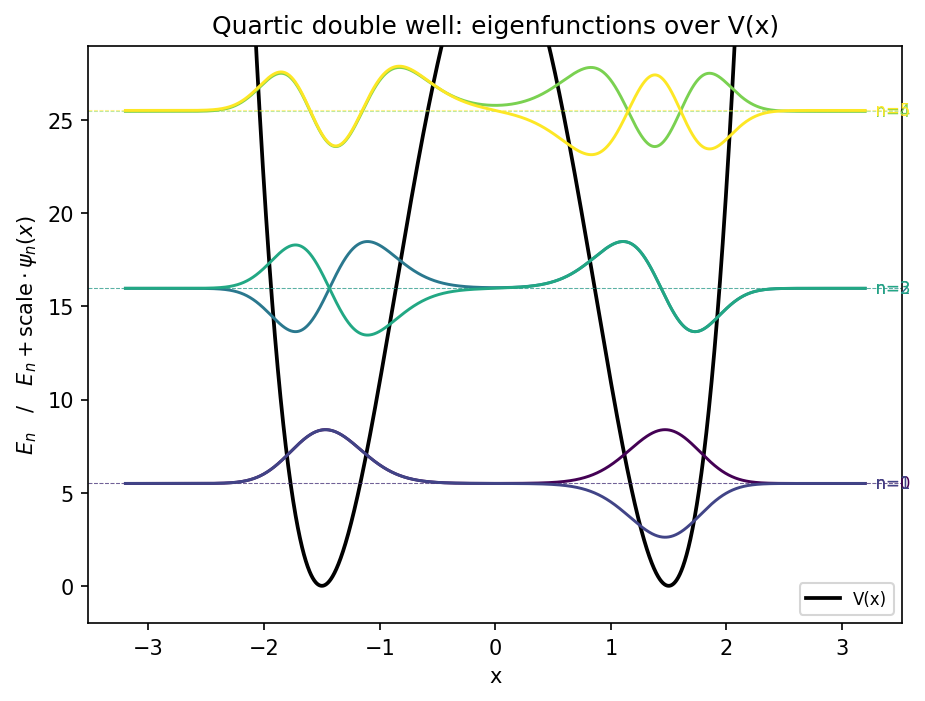
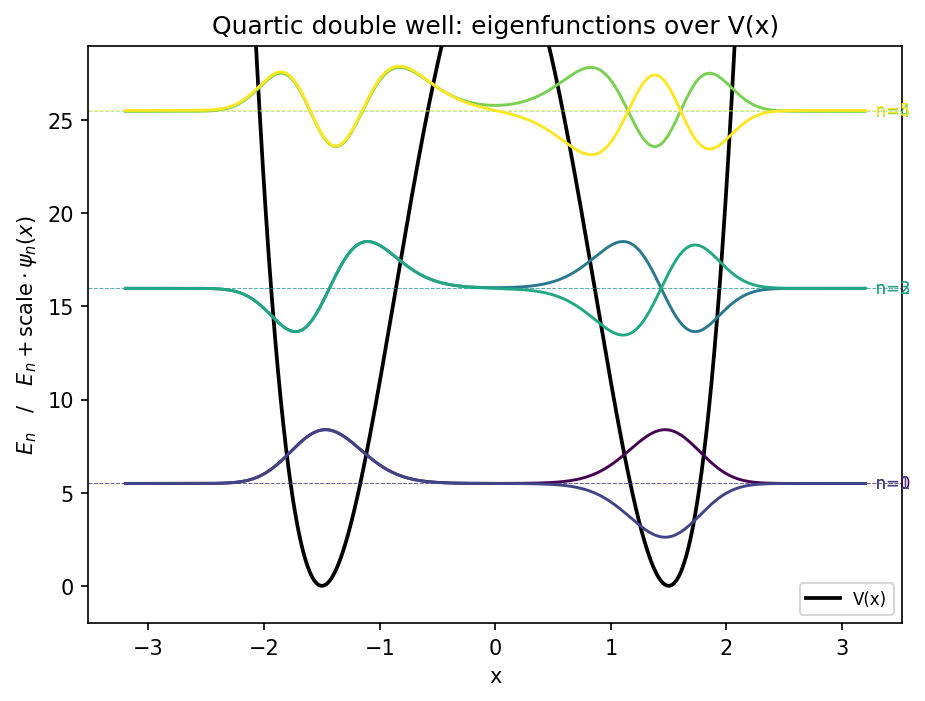
Pin the potential formulas, and regenerate the README figures
Same mutation audit as the 2D repo: nothing tested what the potentials actually compute, so dropping the square in V_DoubleWell left the suite green. The figures still showed the pre-convention signs, and the cell-average integral was rendering a literal comma on GitHub.

diff --git a/tests/test_eigensolver.py b/tests/test_eigensolver.py
@@ -233,3 +233,47 @@ def test_eigenfunctions_are_orthonormal(name, V_fun, x_min, x_max, N):
     assert np.allclose(gram, np.eye(eigvals.size), atol=1e-8), (
         f"{name}: max deviation from identity = {np.abs(gram - np.eye(eigvals.size)).max():.3e}"
     )
+
+
+# ---------------------------------------------------------------------------
+# The potential functions themselves, checked directly rather than through the
+# solver. Everything above tests V only via the spectrum it produces, which is
+# blind for the five potentials with no closed form: hermiticity, orthonormality
+# and the residual hold for *any* diagonal V, and node counts are topological, so
+# a quartic and a quadratic well give the same answer. Mutation confirmed the gap
+# - dropping the square in V_DoubleWell, or turning x**4 into x**2 in V_SingleWell,
+# left the entire suite green. These pin the algebra at hand-computed points.
+# ---------------------------------------------------------------------------
+
+_POTENTIAL_VALUES = [
+    # name, callable, x, expected V(x)   (all worked out by hand, see comments)
+    ("harmonic",       partial(V_HarmonicOscillator, omega=1.0, m=1.0), 2.0, 2.0),          # 0.5*1*4
+    ("anharmonic",     partial(V_AnharmonicOscillator, a=1.0, b=0.1),   2.0, 2.8),          # 0.5*(4 + 0.1*16)
+    ("infinite well",  V_InfiniteSquareWell,                            3.7, 0.0),          # flat inside
+    ("linear",         partial(V_LinearPotential, F=2.0),               3.0, 6.0),          # F*x
+    ("soft Coulomb",   partial(V_SoftCoulomb, Z=1.0, eps=0.5),          0.0, -2.0),         # -1/0.5
+    ("quartic single", partial(V_SingleWell, V0=2.0),                   2.0, 32.0),         # 2*2**4
+    ("quartic double", partial(V_DoubleWell, a=1.5, V0=7.0),            0.0, 35.4375),      # 7*(0-2.25)**2
+]
+
+
+@pytest.mark.parametrize("name,V_fun,x,expected", _POTENTIAL_VALUES)
+def test_potential_values_match_their_formulas(name, V_fun, x, expected):
+    got = float(np.asarray(V_fun(np.array([x])))[0])
+    assert abs(got - expected) < 1e-12, f"{name}: V({x}) = {got}, expected {expected}"
+
+
+def test_double_well_really_has_two_wells():
+    # Stronger than a point value and the reason the name is what it is: V must vanish at
+    # x = +-a and rise to a barrier in between. Dropping the outer square turns this into a
+    # shifted parabola with a single minimum at the origin, which this catches directly.
+    a, V0 = 1.5, 7.0
+    V = partial(V_DoubleWell, a=a, V0=V0)
+    x = np.linspace(-3.0, 3.0, 601)
+    v = V(x)
+    assert abs(float(V(np.array([a]))[0])) < 1e-12
+    assert abs(float(V(np.array([-a]))[0])) < 1e-12
+    assert float(V(np.array([0.0]))[0]) > 0.0, "no barrier between the wells"
+    minima = np.flatnonzero((v[1:-1] < v[:-2]) & (v[1:-1] < v[2:])) + 1
+    assert len(minima) == 2, f"expected two minima, found {len(minima)}"
+    assert np.allclose(np.abs(x[minima]), a, atol=2e-2)

diff --git a/README.md b/README.md
@@ -4,7 +4,7 @@
 [![Python](https://img.shields.io/badge/python-3.10%20%7C%203.12-blue)](https://www.python.org/)
 [![License: MIT](https://img.shields.io/badge/License-MIT-yellow.svg)](LICENSE)
 
-**A finite-difference eigensolver for the 1D time-independent Schrodinger equation, built from scratch and validated against every analytic spectrum it can be compared to.** Space is discretized on a uniform grid, the kinetic operator is a 4th-order 5-point stencil, the potential is a diagonal matrix, and the resulting sparse Hamiltonian is diagonalized with shift-invert `eigsh`. Nine potentials, 37 regression tests, CI on Python 3.10 and 3.12.
+**A finite-difference eigensolver for the 1D time-independent Schrodinger equation, built from scratch and validated against every analytic spectrum it can be compared to.** Space is discretized on a uniform grid, the kinetic operator is a 4th-order 5-point stencil, the potential is a diagonal matrix, and the resulting sparse Hamiltonian is diagonalized with shift-invert `eigsh`. Nine potentials, 45 regression tests, CI on Python 3.10 and 3.12.
 
 The interesting part is not the method, which is standard. It is that building it carefully surfaced three *distinct* sources of error that look identical from the outside — all of them show up as a relative error around $10^{-3}$ to $10^{-4}$ that refuses to shrink — and separating them is what the project is actually about.
 
@@ -110,7 +110,7 @@ The finite square well ($L=10$, $V_0=50$, centered) has a semi-analytic spectrum
 
 What it actually is: the sharp jump in $V(x)$ at the well walls, sampled pointwise onto the grid by `np.where`. Doing that puts the effective wall at whichever grid point happens to be nearest, so the well's width is only known to within $dx$ and the energies inherit an $O(dx)$ error. The fix is to give each grid point the *average* of $V$ over its cell instead of the value at its center,
 
-$$V_i = \frac{1}{dx}\int_{x_i - dx/2}^{x_i + dx/2} V(x')\,dx'$$
+$$V_i = \frac{1}{dx}\int_{x_i - dx/2}^{x_i + dx/2} V(x') dx'$$
 
 which for a step is exact and elementary: the only cell that changes is the one straddling a wall, and it gets $V_0$ times the fraction of itself lying outside the well. That single fractional number carries the sub-grid position of the wall, which is precisely what pointwise sampling throws away. It's implemented as `V_FiniteSquareWell_CellAveraged` and measured side by side against the pointwise version in `convergence_study_finite_well`, which switches to a narrower and shallower well ($L=4$, $V_0=40$) so the sweep stays cheap:
 
@@ -145,6 +145,10 @@ Taking that point with a plain `argmax` is fragile, and the test I first wrote c
 In 1D this never actually flipped across 60 runs, but it does in 2D on the identical construction, so the rule here is written to be safe rather than lucky: break the tie by position, taking the lowest index among all points within $10^{-9}$ of the maximum. Grid indices are exact integers, so where magnitudes are ambiguous in the last bit, position is not. The test now compares the returned arrays across runs instead of any single entry, and two independent executions of the notebook produce all five figures identical byte for byte.
 
 The lesson generalizes past this repo: never verify a convention by measuring the quantity the convention pins, and a passing mutation test shows an assertion depends on the code, not that it measures the right thing.
+
+So I ran that audit over the whole suite rather than assuming this was the only instance, and it wasn't. Every potential formula was unpinned. The structural checks — hermiticity, orthonormality, the residual — hold for *any* diagonal $V$, and the node-count check is topological, so a quartic well and a quadratic one are indistinguishable to it. Five of five formula mutations survived the entire suite, including deleting the outer square from `V_DoubleWell`, which turns two wells into one and is the identical error I had made in my handwritten notes. The fix is to test the potentials directly as functions against values worked out by hand, plus one check that the double well actually has two minima at $\pm a$ rather than one at the origin.
+
+Ten mutations, nine now caught. The survivor is replacing `argsort` on the eigenvalues with the identity, and that one is an equivalent mutant rather than a gap: `eigsh` already returns them in ascending order, verified over twenty runs. The sort stays as insurance, since ARPACK does not contractually guarantee it, and no test can distinguish insurance that is never needed.
 
 ## What's in the repo
 
